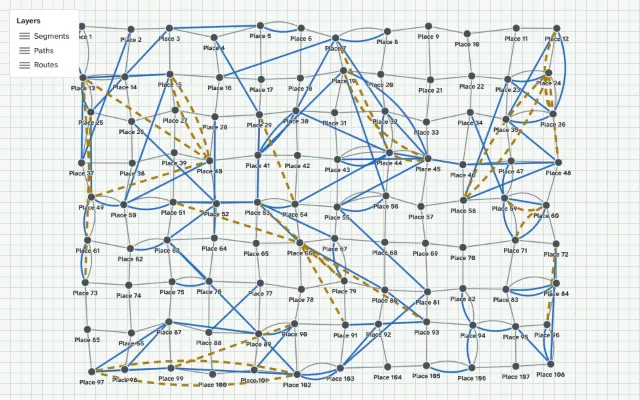
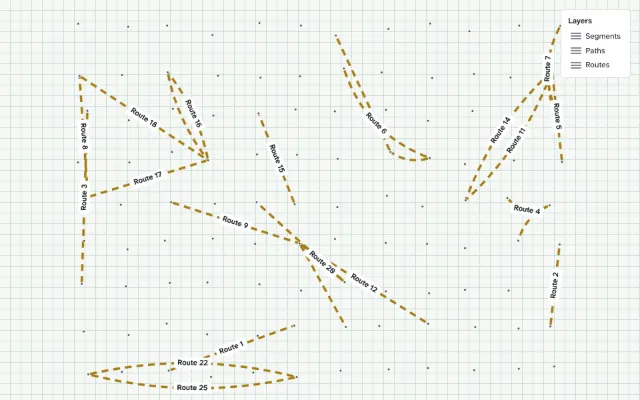
docs: show the multilayer example as a drill-down (#105)

Changed region(s): [[0.0, 0.03, 0.9688, 0.99]]

diff --git a/docs/src/examples/multilayer/main.ts b/docs/src/examples/multilayer/main.ts
@@ -1,54 +1,59 @@
-import { defineGraph, edges, type GraphInstance, mountGraph, nodes } from '@bruno00o/graph'
+import {
+  defineGraph,
+  edges,
+  type GraphInstance,
+  type Key,
+  mountGraph,
+  nodes,
+} from '@bruno00o/graph'
 import { createLegend, mountLegend } from '@bruno00o/graph/legend'
-import { createStrata } from '../shared/data'
-import { messages } from '../shared/messages'
 import '../shared/overlays.css'
+import { createNetwork, type Link } from './data'
+import { messages } from './messages'
 
-const strata = createStrata(12, 9)
-const edgeCount = strata.lower.length + strata.middle.length + strata.upper.length
-const link = { source: 'from', target: 'to', supportedBy: 'over' } as const
+const network = createNetwork()
+const link = {
+  source: 'from',
+  target: 'to',
+  supportedBy: 'over',
+  label: { text: 'name', size: 14, background: true },
+} as const
+const total = network.routes.length + network.paths.length + network.segments.length
+const beneath = [...network.paths, ...network.segments].map((edge) => edge.id)
 
 const definition = defineGraph({
   marks: [
-    edges(strata.lower, { ...link, layer: 'lower', width: 1.5 }),
-    edges(strata.middle, {
+    edges(network.segments, { ...link, layer: 'lower', width: 2 }),
+    edges(network.paths, {
       ...link,
       layer: 'middle',
       stroke: 'var(--graph-cat-1)',
       width: 2.5,
     }),
-    edges(strata.upper, {
+    edges(network.routes, {
       ...link,
       layer: 'upper',
       stroke: 'var(--graph-cat-2)',
       width: 3.5,
       dash: 'dashed',
     }),
-    nodes(strata.places, { x: 'x', y: 'y', label: 'label' }),
+    nodes(network.places, { x: 'x', y: 'y', size: 6 }),
   ],
   states: {
-    carrier: {
-      stroke: 'var(--graph-accent)',
-      outline: 'var(--graph-accent)',
-      strokeWidth: 3,
-      raise: true,
-    },
-    carried: {
-      stroke: 'var(--graph-cat-4)',
-      outline: 'var(--graph-cat-4)',
-      strokeWidth: 3,
-      raise: true,
-    },
+    closed: { hide: true },
+    open: { stroke: 'var(--graph-accent)', raise: true },
   },
-  support: { carriers: 'carrier', carried: 'carried' },
   interaction: { select: 'single' },
 })
 
 export function mount(container: HTMLElement): GraphInstance {
   const graph = mountGraph(container, {
     definition,
-    ariaLabel: messages.graphLabel(strata.places.length, edgeCount),
+    ariaLabel: messages.graphLabel(network.places.length, network.routes.length),
   })
+  const opened = new Set<Key>()
+  const revealed = new Set<Key>()
+  let hovered: Link | null = null
 
   const legend = createLegend(graph)
   const view = mountLegend(legend, {
@@ -57,24 +62,72 @@ export function mount(container: HTMLElement): GraphInstance {
     layerText: (layer) => messages.layerNames[layer.name] ?? layer.name,
     ariaLabel: messages.layersLabel,
   })
-  view.element.classList.add('example-scale-legend')
+  view.element.classList.add('example-scale-legend', 'example-scale-legend-right')
   container.append(view.element)
 
   const status = document.createElement('output')
   status.className = 'example-status'
-  status.textContent = messages.supportHint
   container.append(status)
 
-  graph.on('selectionchange', ({ selection }) => {
-    const [key] = selection.edges
-    status.textContent =
-      key === undefined
-        ? messages.supportHint
-        : messages.supportStatus(
-            graph.support.carriers(key).edges.length,
-            graph.support.carried(key).edges.length,
-          )
+  const reset = document.createElement('button')
+  reset.type = 'button'
+  reset.className = 'example-button'
+  reset.textContent = messages.reset
+  const actions = document.createElement('div')
+  actions.className = 'example-actions'
+  actions.append(reset)
+  container.append(actions)
+
+  function describe(): void {
+    status.textContent = hovered
+      ? messages.edge(hovered.name, hovered.capacity, hovered.over.length)
+      : messages.shown(network.routes.length + revealed.size, total)
+  }
+
+  function reveal(): void {
+    revealed.clear()
+    for (const key of opened) {
+      for (const carrier of graph.support.carriers(key, { maxDepth: 1 }).edges) {
+        revealed.add(carrier)
+      }
+    }
+    graph.states.set('closed', { edges: beneath.filter((key) => !revealed.has(key)) })
+    graph.states.set('open', { edges: [...opened] })
+    if (hovered && beneath.includes(hovered.id) && !revealed.has(hovered.id)) hovered = null
+    describe()
+  }
+
+  function toggle(key: Key): void {
+    if (opened.delete(key)) {
+      for (const deeper of graph.support.carriers(key).edges) opened.delete(deeper)
+    } else if (graph.support.carriers(key, { maxDepth: 1 }).edges.length > 0) {
+      opened.add(key)
+    }
+    reveal()
+  }
+
+  graph.on('doubleclick', ({ target }) => {
+    if (target?.kind === 'edge') toggle(target.key)
   })
+
+  graph.on('pointerenter', ({ target }) => {
+    if (target.kind !== 'edge') return
+    hovered = target.datum
+    describe()
+  })
+
+  graph.on('pointerleave', () => {
+    hovered = null
+    describe()
+  })
+
+  reset.addEventListener('click', () => {
+    opened.clear()
+    graph.selection.clear()
+    reveal()
+  })
+
+  reveal()
 
   return graph
 }

diff --git a/docs/src/examples/multilayer/messages.ts b/docs/src/examples/multilayer/messages.ts
@@ -1,0 +1,24 @@
+const numbers = new Intl.NumberFormat('en-US')
+
+const count = (value: number, one: string, many: string) =>
+  `${numbers.format(value)} ${value === 1 ? one : many}`
+
+export const messages = {
+  graphLabel: (places: number, routes: number) =>
+    `Graph of ${count(places, 'place', 'places')} and ${count(routes, 'route', 'routes')}`,
+  reset: 'Start over',
+  layersTitle: 'Layers',
+  layersLabel: 'Layers of the graph',
+  layerNames: { lower: 'Segments', middle: 'Paths', upper: 'Routes' } as Record<string, string>,
+  names: {
+    upper: (order: number) => `Route ${numbers.format(order)}`,
+    middle: (order: number) => `Path ${numbers.format(order)}`,
+    lower: (order: number) => `Segment ${numbers.format(order)}`,
+  },
+  shown: (shown: number, total: number) =>
+    `${numbers.format(shown)} of ${numbers.format(total)} edges shown`,
+  edge: (name: string, capacity: number, carriers: number) =>
+    `${name}, capacity ${numbers.format(capacity)}, ${
+      carriers === 0 ? 'no carrier' : count(carriers, 'carrier', 'carriers')
+    }`,
+} as const

diff --git a/docs/src/examples/multilayer/meta.ts b/docs/src/examples/multilayer/meta.ts
@@ -3,11 +3,11 @@ import type { ExampleMeta } from '../types'
 export default {
   title: 'Multilayer graph',
   description:
-    'Three layers of edges between the same places: segments, paths that run along segments, and routes that run along paths. Hide a layer from the legend, and click an edge to light what carries it and what it carries.',
-  hint: 'Click an edge. Click a layer in the legend to hide it.',
+    'Routes between places, each with its own name and capacity, that run along paths, which run along segments. Only the routes show at first: double-click an edge to open the edges that carry it, one level at a time.',
+  hint: 'Double-click an edge to open what carries it. Double-click it again to close.',
   category: 'structure',
   order: 30,
   tags: ['Vanilla'],
-  api: ['edges', 'support', 'legend'],
-  guides: ['multilayer'],
+  api: ['edges', 'support', 'events', 'legend'],
+  guides: ['multilayer#drill-down'],
 } satisfies ExampleMeta

diff --git a/docs/src/examples/multilayer/data.ts b/docs/src/examples/multilayer/data.ts
@@ -1,0 +1,25 @@
+import { createStrata, type LayeredLink } from '../shared/data'
+import { random } from '../shared/random'
+import { messages } from './messages'
+
+export interface Link extends LayeredLink {
+  readonly name: string
+  readonly capacity: number
+}
+
+export function createNetwork() {
+  const strata = createStrata(12, 9)
+  const next = random(11)
+  const describe = (links: LayeredLink[], name: (order: number) => string): Link[] =>
+    links.map((link, index) => ({
+      ...link,
+      name: name(index + 1),
+      capacity: 10 + Math.round(next() * 90),
+    }))
+  return {
+    places: strata.places,
+    routes: describe(strata.upper, messages.names.upper),
+    paths: describe(strata.middle, messages.names.middle),
+    segments: describe(strata.lower, messages.names.lower),
+  }
+}
